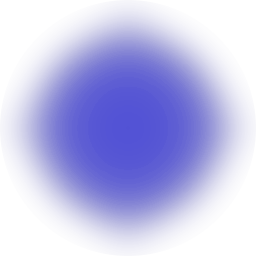
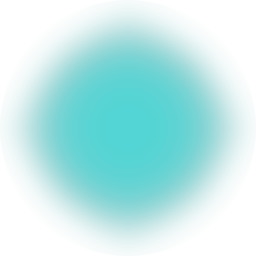
Tried to fix some particle slowdowns, and changed the size and color of glows.

diff --git a/24-hour-android/src/android/game/LibgdxTest.java b/24-hour-android/src/android/game/LibgdxTest.java
@@ -4,6 +4,7 @@ import java.io.BufferedReader;
 import java.io.IOException;
 import java.util.ArrayList;
 import java.util.Random;
+import java.util.Date;
 
 import android.util.Log;
 
@@ -31,6 +32,8 @@ public class LibgdxTest implements ApplicationListener{
 	GestureDetector gestureDetector;
 	
 	Player player;
+	
+	double levelStartTime;
 	
 	ArrayList<Planet> planets;
 	Planet win;
@@ -94,10 +97,9 @@ public class LibgdxTest implements ApplicationListener{
         fuel.height = 15;
         fuel.width = Gdx.graphics.getWidth();
         
-        glowR = new Sprite("redGlow.png", 200, 200);
-        glowG = new Sprite("greenGlow.png", 300, 300);
-        //glowG.width = glowG.height = 500;
-        glowB = new Sprite("blueGlow.png", 200, 200);
+        glowR = new Sprite("redGlow.png", 100, 100);
+        glowG = new Sprite("greenGlow.png", 200, 200);
+        glowB = new Sprite("blueGlow.png", 100, 100);
 
         this.camera = new Camera(this.player);
         
@@ -234,27 +236,30 @@ public class LibgdxTest implements ApplicationListener{
 			
 		}
 		
+		
 		for (Planet planet : planets){
 			Vector3D toPlanet = planet.p.subtract(player.p);
 			Vector3D wallIntersect = LibgdxTest.vectorIntersectionWithRectangle(player.p, toPlanet, x, y, Gdx.graphics.getWidth(), Gdx.graphics.getHeight());
 			Vector3D position = wallIntersect;//.add(toPlanet.scale(20 / toPlanet.lengthSquared()));
 			
-			if (planet.t == Planet.type.WIN){
-				glowG.x = position.getX() - glowG.width / 2;
-				glowG.y = position.getY() - glowG.height / 2;
-				glowG.draw(batch, x, y);
-				//batch.draw(texture, (int) x - dx, (int) y - dy, width / 2, height / 2, width, height, 1, 1, (float) rotation);
-			} else if (toPlanet.length() < Math.sqrt(Gdx.graphics.getWidth() * Gdx.graphics.getHeight()) && !window.contains((float) planet.x, (float) planet.y)){
-				if (planet.t == Planet.type.HOSTILE){
-					position = position.add(toPlanet.scale(1 / 30));
-					glowR.x = position.getX() - glowR.width / 2;
-					glowR.y = position.getY() - glowR.height / 2;
-					glowR.draw(batch, x, y);
-				} else if (planet.t == Planet.type.FRIENDLY){
-					position = position.add(toPlanet.scale(1 / 30));
-					glowB.x = position.getX() - glowB.width / 2;
-					glowB.y = position.getY() - glowB.height / 2;
-					glowB.draw(batch, x, y);
+			if (!window.contains((float) planet.x, (float) planet.y)){
+				if (planet.t == Planet.type.WIN){
+					glowG.x = position.getX() - glowG.width / 2;
+					glowG.y = position.getY() - glowG.height / 2;
+					glowG.draw(batch, x, y);
+					//batch.draw(texture, (int) x - dx, (int) y - dy, width / 2, height / 2, width, height, 1, 1, (float) rotation);
+				} else if (toPlanet.length() < Math.sqrt(Gdx.graphics.getWidth() * Gdx.graphics.getHeight())){
+					if (planet.t == Planet.type.HOSTILE){
+						position = position.add(toPlanet.scale(1 / 30));
+						glowR.x = position.getX() - glowR.width / 2;
+						glowR.y = position.getY() - glowR.height / 2;
+						glowR.draw(batch, x, y);
+					} else if (planet.t == Planet.type.FRIENDLY){
+						position = position.add(toPlanet.scale(1 / 30));
+						glowB.x = position.getX() - glowB.width / 2;
+						glowB.y = position.getY() - glowB.height / 2;
+						glowB.draw(batch, x, y);
+					}
 				}
 			
 			}
@@ -345,6 +350,7 @@ public class LibgdxTest implements ApplicationListener{
 		String line;
 		
 		planets = new ArrayList<Planet>();
+		particleSources = new ArrayList<ParticleSource>();
 		
 		Random random = new Random();
 		

diff --git a/24-hour-android/src/android/game/ParticleSource.java b/24-hour-android/src/android/game/ParticleSource.java
@@ -47,11 +47,15 @@ public class ParticleSource {
 	public boolean draw(SpriteBatch batch, int dx, int dy) { // Returns true if this object should stay alive, false if it's dead
 		centerPosition = centerPosition.add(initVelocity);
 		boolean anyAlive = false;
-		for (Particle p : particles) {
+		for (int i = 0; i < particles.size(); i++) {
+			Particle p = particles.get(i);
 			p.tick();
 			if (p.shouldRender()) {
 				batch.draw(texture, (float) (centerPosition.getX() + p.position.getX() - dx), (float) (centerPosition.getY() + p.position.getY() - dy), 0, 0, width, height, 1, 1, (float) p.rotation);
 				anyAlive = true;
+			} else {
+				particles.remove(i);
+				i--;
 			}
 		}
 		return anyAlive;

diff --git a/24-hour-android/src/android/game/Controller.java b/24-hour-android/src/android/game/Controller.java
@@ -12,6 +12,8 @@ public class Controller implements GestureListener{
 	boolean touchDown = false;
 	Vector3D touchSpot;
 	
+	double levelStartTime;
+	
 	int launchScale = 500;
 	int fuelScale = 5000;
 
